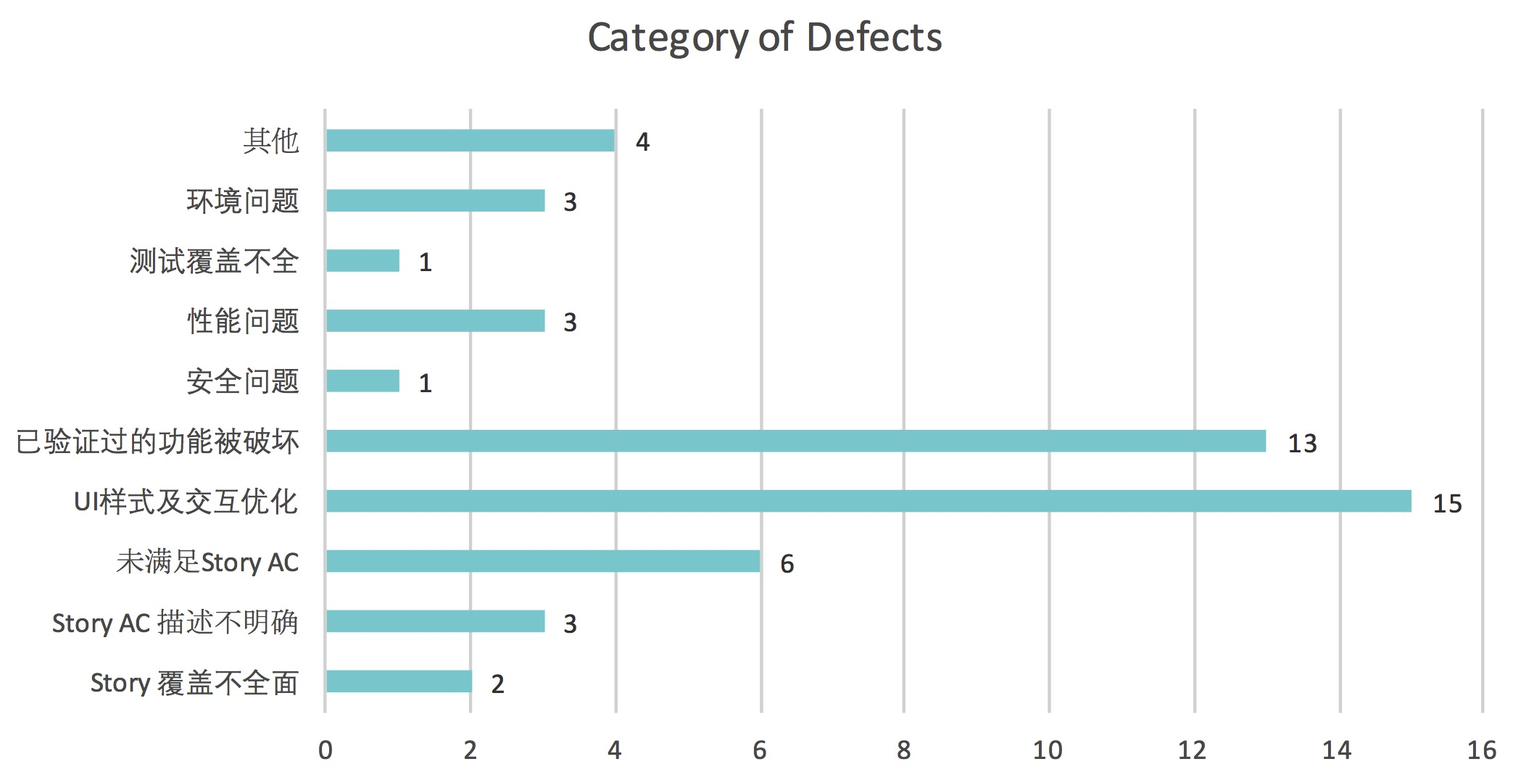
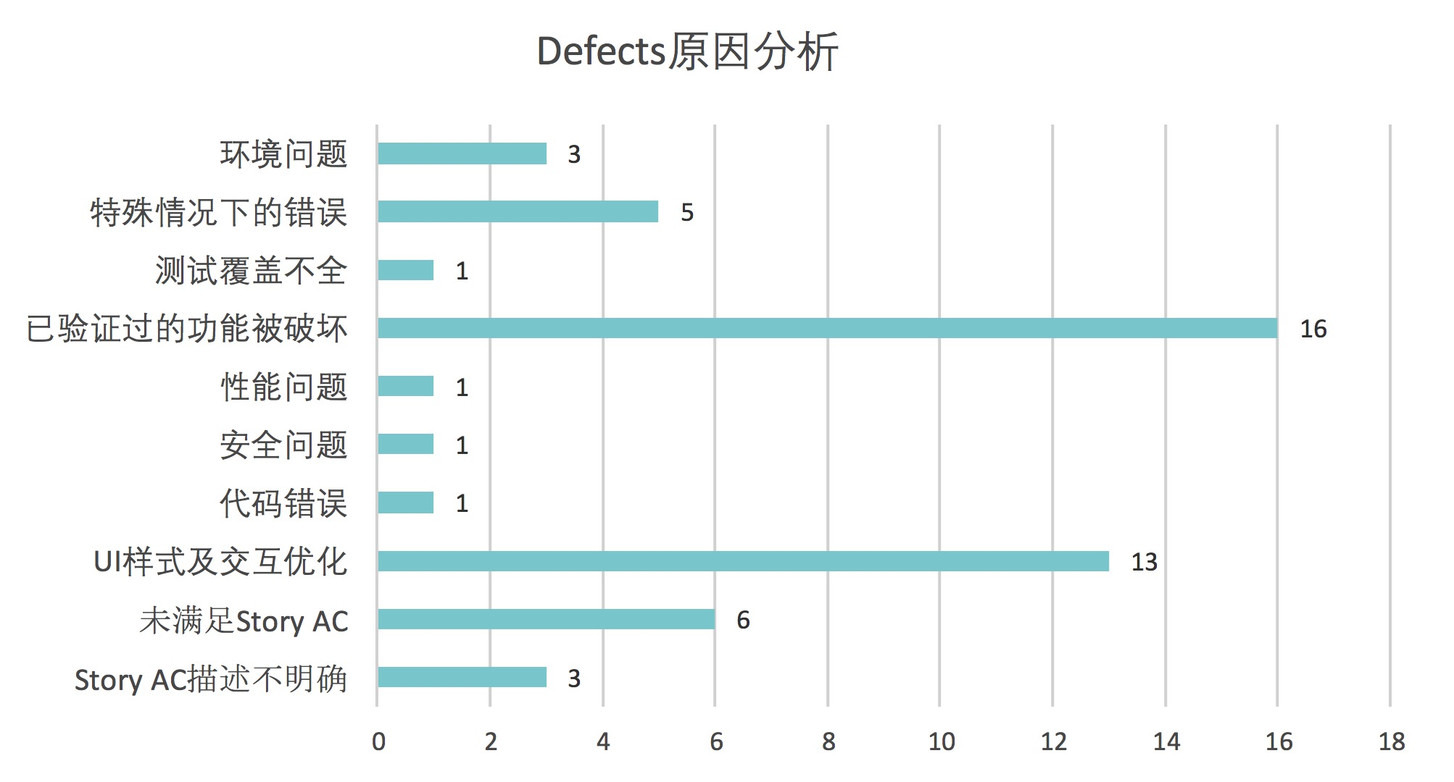
update defects

diff --git a/_posts/8. Testing/2018-07-29-defects-management.md b/_posts/8. Testing/2018-07-29-defects-management.md
@@ -1,39 +1,41 @@
 ---
 layout: post
-title: 敏捷开发中的Defects管理
+title: Defects的启示
 date: 2018-7-29
 categories: blog
-header-img: "../img/header/Home8.jpg"
+header-img: "../img/header/Home7.jpg"
 tags: [测试锦囊]
 description: 敏捷开发中的Defects管理
 
 ---
 
-# 什么是Defect
+最近我做了一些实践，通过整理、讨论和分析项目上的Defects情况，来探索质量管理中的待改进点。最终发现，Defects实际上给质量管理带来了很多的启示。
 
-我查了很多资料，也没有找到对"Defects"一词的明确定义，大部分人将"Defects"等同于“Bug”。Bug一词是这样来的。
+当然，要讨论Defects，首先要使团队对Defects有一致的理解。我查了很多资料，也没有找到对"Defects"一词的明确定义，大部分人将"Defects"等同于“Bug”。
 
-1947年9月9日，Grace Hopper发现了第一个电脑上的bug。当团队在Mark II计算机上工作时，搞不清楚为什么电脑不能正常工作了。经过深度挖掘，才发现，原来是一只飞蛾误打误撞地飞到了计算机内部，从而引发了故障。从此，人们开始用“Bug”（原意是“虫子”）来称呼计算机中的隐含的错误。
+	1947年9月9日，Grace Hopper发现了第一个电脑上的bug。当团队在Mark II计算机上工作时，搞不清楚为什么电脑不能正常工作了。经过深度挖掘，才发现，原来是一只飞蛾误打误撞地飞到了计算机内部，从而引发了故障。从此，人们开始用“Bug”（原意是“虫子”）来称呼计算机中的隐含的错误。
 
-那么“Defects”真的等同于“Bug”吗？我不建议过于纠结概念，而应该关注于其本身。我的理解是，从狭义上讲，Defects是指软件程序中存在某种破坏其正常运行的**问题**或**错误**。然而，从质量的角度讲，没有错误并不代表就是一款能够让客户和用户满意的软件产品。因此，从广义上讲，Defects还包含那些没有达到客户或用户期望的质量问题。具体来说，Defects可以分为以下几类：
+然而，一个好的软件产品，不仅要关注其功能本身，还要关注其是否好用、是否安全、是否给用户带来良好的体验、是否帮助用户实现真正的业务价值。因此，从狭义上讲，Defects是指软件程序中存在的某种破坏其正常运行的问题或错误。从广义上讲，Defects还包含那些没有达到客户或用户期望的质量问题。具体来说，Defects可以分为以下几类：
 
-* ① **程序错误**: 指程序中存在的错误，比如边界、时区等问题，从而使得系统无法正常工作。
+* **程序错误**: 指程序中存在某种错误，比如边界、时区等问题，使得系统无法正常工作。
 
-* ② **性能问题**：指系统的响应速度、吞吐量、并发数等性能瓶颈，导致系统缺陷，或者引起较差的用户体验。试想，如果用户想要查看一个报表，却需要花10分钟来等待页面加载，用户是否会放弃。
+* **性能问题**：指由于性能瓶颈所导致的系统缺陷。试想，作为用户，如果你想要查看一个报表，却需要花10分钟来等待加载，你是否会放弃？
 
-* ③ **安全问题**：指软件安全漏洞，造成信息泄露，或者系统数据、功能易受攻击。
+* **安全问题**：指软件安全漏洞，造成信息泄露、或使得系统数据或功能易受攻击。
 
-* ④ **兼容性问题**：指程序无法在不同的硬件平台、操作系统、网络环境等中正常运行。
+* **兼容性问题**：指程序无法在不同的硬件平台、操作系统、网络环境等中正常运行。
 
-* ⑤ **功能与用户需求不否**：指软件功能虽能够正常工作，但与用户期望的功能不匹配。比如，用户期望造一个沙发，却开发了个马扎。
+* **功能与用户需求不否**：指软件功能与用户期望不匹配。比如，用户期望造一个沙发，却交付了个马扎。
 
-* ⑥ **交互体验不佳**：指用户使用起来不方便。好的软件，应该方便使用、易于操作。举个例子，电梯控制面板上的“报警”按钮和“关门”按钮紧挨在一起，功能没有问题，但你是否经常由于想要"关门"而误触了“报警"按钮？再比如，你在网页中填写了一个长长的表单，点击“提交”按钮后，系统提示输入信息有误，却并没有告诉你错误的哪里，你是会耐心地从头查阅，还是干脆放弃？
+* **交互体验不佳**：指用户使用起来不方便。譬如，电梯控制面板上的“报警”按钮和“关门”按钮紧挨在一起，你是否经常由于"关门"而误触了“报警"按钮？再比如，你在网页中填写了一个长长的表单，点击“提交”按钮后，系统提示输入信息有误，却并没有告诉你错误的哪里，你是会不耐烦地从头查阅，还是干脆放弃？
 
 ---
 
-# Defect的来源及处理方法
+# Defects的产生与应对策略
 
-在敏捷开发中，我们将需求按照优先级划分成一个个迭代，每个迭代都能以一个可交付的软件呈现给用户，从而及早地获得用户反馈，以保证我们交付的软件是用户真正期望的。在每个迭代中，我们所有的开发都基于用户故事卡，每一张用户故事卡都将经历Analyse、Design、Code、Test、Deploy的过程。
+产品质量是团队共同的责任，软件开发是一个过程，任何环节都有可能产生质量问题，但每个环节的问题都应该有最恰当的处理方式。
+
+在敏捷开发中，我们将需求按照优先级划分成一个个迭代，每个迭代都能以一个可交付的软件呈现给用户，从而尽早地获得用户反馈，以保证我们交付的软件是用户真正期望的。在每个迭代中，我们所有的开发都基于用户故事卡（Story），每一张用户故事卡都将经历Analyse、Design、Code、Test、Deploy的过程。
 
 那么，在敏捷软件开发过程中，哪些环节都可能产生Defect呢？
 
@@ -41,91 +43,60 @@ description: 敏捷开发中的Defects管理
     <p><img src="{{site.baseurl }}/img/web-testing/image-022.jpg" align="center"></p>
 </center>
 
-正如上图所示，Defect分别来自于Sprint阶段、UAT用户验收阶段以及真正的生产环境。其中，Sprint阶段又细分为：不合理的需求、不恰当的设计、代码及逻辑错误、Story卡测试发现的问题、回归测试发现的问题、以及非功能性测试的问题。
+正如上图所示，Defect分别来自于Sprint阶段、UAT用户验收阶段以及真正的生产环境。其中，Sprint阶段又细分为：不合理的需求、不恰当的设计、代码及逻辑错误、Story卡测试过程中发现的问题、回归测试中发现的问题、以及非功能性测试发现的问题。
 
-由于编写Defect卡本身就是一件很花时间的事，不可能将所有的问题都以Defects的形式提交到Defects管理系统或者看板上。那么，高效的做法是，针对不同环节的Defect，采用不同的的处理方法。
+开发过程中不同阶段的Defects，我们分别采用什么样的敏捷实践来应对呢？
 <center>
     <p><img src="{{site.baseurl }}/img/web-testing/image-023.jpg" align="center"></p>
 </center>
 
-上图以看板的形式展示了Sprint开发中Story卡片流动的过程，以及每个环节的敏捷实践，这些实践就是保证该环节交付质量的有效手段，同时包含了对各个阶段Defect的处理方法：
+上图以看板的形式展示了Sprint开发中Story卡片流动的过程，以及每个环节的敏捷实践，这些实践有助我们发现和改善质量问题：
 
-* ① **不合理的需求**: 由于QA往往有不同于BA的视角，因此需要提早介入，与BA Pair完善Story AC (Acceptance Criteria）。此时发现的问题要及时补充到Story卡上。这样，不仅能够尽早地发现需求上的不合理或遗漏，还有助于QA深入理解需求、设计测试用例。
+* **不合理的需求**: 由于QA往往有不同于BA的视角，提早与BA Pair完善Story AC (Acceptance Criteria）。此时发现的问题要及时补充到Story卡上。这样，不仅能够尽早地发现需求上的不合理或遗漏，还有助于QA深入理解需求、设计测试用例。
 
-* ② **不恰当的设计**：UX往往制作出很酷炫的设计图，但并不一定是用户真正期望的，或者技术实现的成本过高。因此，一方面，要在开发之前与用户Review设计图，并按照用户的反馈更新设计；另一方面，在每一张Story卡开始开发之前，由BA、UX、QA及Dev一起Kick Off Story，通过讨论和澄清，使得团队成员对需求和设计达成一致。一旦发现问题，要及时更新Story卡和设计图。
+* **不恰当的设计**：UX制作出酷炫的设计图，却并不一定是用户真正期望的，或者技术实现的成本过高。因此，一方面，要在开发之前与用户Review设计图，并按照用户的反馈及时更新；另一方面，在每一张Story卡开始开发之前，由BA、UX、QA及Dev一起Kick Off Story，通过讨论和澄清，使得团队成员对需求和设计达成一致。一旦发现问题，要及时更新Story卡和设计图。
 
-* ③ **代码及逻辑错误**：单元测试、Code Review、Desk Check都是用来发现代码及逻辑错误的有效手段。因此，开发提交代码后，要先执行单元测试、只有当单元测试通过之后，才可以将代码部署到QA测试环境，然后按照Story的AC逐条与QA和BA进行Desk check。除此之外，开发团队要每天坚持Code Review，以便发现代码逻辑及编码规范方面的问题。这些过程中发现的Defects都将由Dev自行修复。 
+* **代码及逻辑错误**：单元测试、Code Review、Desk Check都是用来发现代码及逻辑错误的有效手段。因此，开发提交代码后，要先执行单元测试、只有当单元测试通过之后，才可以将代码部署到QA测试环境；然后按照Story的AC逐条与QA和BA进行Desk check。除此之外，开发团队要每天坚持Code Review，以便发现代码逻辑及编码规范方面的问题。这些过程中发现的Defects都应该尽快修复。 
 
-* ④ **Story卡测试发现的问题**：Story卡测试时发现的问题，无论其严重程度如何，基本上都要在当前迭代修复。QA可以与Dev面对面沟通，也可以将Defect添加到Story的Comment里面，再将Story重新拖回In Dev状态，或者在物理看板上添加一张物理卡片。但无论哪种形式，都需要在早会时提及，以便有效地跟踪Defect进度。
+* **Story卡测试中发现的问题**：Story卡测试时发现的问题，无论其严重程度如何，基本上都要在当前迭代修复。QA可以与Dev面对面沟通，也可以将Defect添加到Story的Comment里面，再将Story重新拖回In Dev状态，或者在物理看板上添加一张物理卡片。但无论哪种形式，都需要在早会时提及，以便有效地跟踪Defect进度。
 
-* ⑤ **回归测试发现的问题**：普遍来讲，回归测试发现的问题，优先级要低于Story的开发。因此，QA需要在电子看板或者Defects管理系统中提交一条标准的Defect记录，然后与BA沟通，在最恰当的时间Assign给Dev。但如果该Defect造成系统崩溃或者Block了某些功能的使用，就应该立即修复它。
+* **回归测试中发现的问题**：普遍来讲，回归测试发现的问题，优先级要低于Story的开发。因此，QA需要在电子看板或者Defects管理系统中提交一条Defect记录，然后与BA沟通，在最合适的时间Assign给Dev。但如果该Defect造成系统崩溃或者Block了某些功能的使用，就应该立即修复它。
 
-* ⑥ **非功性测试的问题**：非功能性测试一般是在每一次正式Release上线之前做，发现的问题也要在Release之前修复。同样需要在电子看板或者Defects管理系统中提交一条Defect，但要注意其优先级。
+* **非功性测试发现的问题**：非功能性测试一般是在每个Release上线之前做，发现的问题也要在Release之前修复。同样需要在电子看板或者Defects管理系统中提交Defect记录，但要注意其优先级。
 
-* ⑦ **UAT用户验收阶段的反馈**：在UAT阶段，开发团队向用户Showcase，或者由用户来做用户验收测试。这时，用户会提出一些反馈。由QA和BA对这些反馈进行分析，如果是功能层面的问题，在看板上建成卡片，并在上线前修复。如果是需求层面的问题，就将其添加到需求列表中，以便安排在之后的迭代计划中。
+* **UAT用户验收阶段的反馈**：在UAT阶段，开发团队向用户Showcase，或者由用户来做用户验收测试。此时，用户会提出一些反馈。由QA和BA对这些反馈进行分析，如果是功能层面的问题，在看板上建成卡片，并在上线前修复。如果是需求层面的问题，就将其添加到需求列表中，以便安排在之后的迭代计划中。
 
-* ⑧ **生产上的问题**：生产上的问题优先级是最高的。但是与用户反馈一样，功能层面的问题要立即修复，用户体验上的问题要添加在需求列表中。
-
-标准的Defect应该这样记录：
-<center>
-    <p><img src="{{site.baseurl }}/img/web-testing/image-025.jpg" align="center"></p>
-</center>
+* **生产上的问题**：生产上的问题优先级是最高的。但是与用户反馈一样，功能层面的问题要立即修复，用户体验上的问题要添加在需求列表中。
 
 ---
 
-# Defect的生命周期
+# Defects对质量管理的启示
 
-Defect的生命周期是指Defect从被发现到关闭的过程，其状态大致分为：New、Open、Assigned、Rejected、Resolved、Fixed、Blocked、Failed Retest、Closed。其过程如图所示：
+Defects并不是独立存在的，它或多或少反映出了项目管理和开发过程中存在的问题，这些问题都可能对质量产生影响。比如：线上问题的走势，是否能够反映出产品质量的变化；分析每个迭代Defects的数据及产生的原因，有助于发现开发过程中出现的问题，及时地进行风险把控；
 
-<center>
-    <p><img src="{{site.baseurl }}/img/web-testing/image-024.jpg" align="center"></p>
-</center>
+我以自己所在项目为例，说一说Defects给质量管理和团队管理带来的启示。
 
+#### 1. 通过线上问题走势，分析产品质量的变化
 
-<!-- * **New**: QA发现一个新的Defect，即Defect生命周期的开始。
- * **Open**: 经过反复重现，确定是问题时，QA提交缺陷单，等待Dev认领。
- * **Assigned**: Defect被Dev认领，等待分析。
- * **Rejected**:	Defect是有时效性的，有些Defect会在开发过程中被默默修复;有些会随着新功能的开发现象发生改变，因此当Dev领到Defect之后，发现不再是之前的问题，则将其Reject。这时，QA就需要重新分析，选择关闭，或是按照当前现象修改描述。
- * **Resolved**: 经过与QA、BA讨论，决定该问题不需要修复。
- * **Fixed**: Dev已经完成修复，等待QA进行回归测试。
- * **Blocked**: 依赖于其他问题。
- * **Failed Retest**: 修复失败。
- * **Closed**: QA回归通过，Defect生命周期结束。-->
-
- Defect有三种最终状态：
- * ① **Resolved**: 经过QA、BA及Dev讨论后，认为该Defect不需要修复，则被置为Resolved。
- * ② **Rejected**:	Defect是有时效性的，有些非高优先级的Defect被提出后，并不会被立即Assign给Dev。这些Defect或许会在开发过程中被Dev发现并默默修复，也可能随着新功能的开发发生改变，因此一旦发现Defect中描述的行为无法复现或者与之前记录的现象不符，则将其Reject。这时，QA需要重新去复现或定位。
- * ③ **Closed**: QA回归测试通过，Defect生命周期结束。
-
----
-
-# Defects的启示
-
-Defects作为衡量产品质量的重要指标，Defects管理作为质量管理的重要组成部分，切不可忽视Defects所带来的启示。比如：通过线上问题的趋势，衡量产品质量的变化；分析每个迭代Defects的数据及产生的原因，有助于发现开发过程中出现的问题，及时地进行风险把控；
-
-我以自己所在的Adventure项目为例，说一说Defects给质量管理和团队管理带来的启示。
-
-#### 1. 分析线上问题走势，衡量产品质量
-
-2017年8月，我们接到Adventure遗留系统，到10月份累计在生产环境发现历史遗留问题21个。按照优先级，每个月消灭一些。截止2018年7月，发现的历史遗留问题高达46个，只剩余2个还未修复。Defects数量在减少，产品质量在逐步提升。
+2017年8月，我们接到A遗留系统，到10月份累计在生产环境发现历史遗留问题21个。按照优先级，每个月修复一定的数量。截止2018年7月，发现的历史遗留问题高达46个，只剩余2个还未修复。Defects数量在减少，产品质量在逐步提升。
 
 <center>
     <p><img src="{{site.baseurl }}/img/web-testing/image-028.jpg" align="center"></p>
 </center>
 
-除此之外，我们对历史遗留问题和新引入问题做了对比，这10个月的线上问题中，历史遗留问题占85%，新引入问题占15%，可见开发过程中的测试工作相对比较充分，但仍有部分问题流到线上，要对这些问题具体分析：其严重程度如何、产生的原因是什么、为什么在测试中没有发现、后续有怎样的改进措施。
+除此之外，我们对历史遗留问题和新引入问题做了对比，这10个月的线上问题中，历史遗留问题占85%，新引入问题占15%，可见仍有部分没能在开发过程中发现，使其流到线上。要对这些问题具体分析：其严重程度如何、产生的原因是什么、为什么在开发过程中没有发现、后续有怎样的改进措施。
 
-这些还不够，理想的情况是，要对生产上的“运维类问题”和“功能类问题”加以区分，以便采取更恰当的改进措施。
+当然，最好能对生产上的“运维类问题”和“功能类问题”加以区分，以便采取更恰当的改进措施。
 
 #### 2. 分析迭代Defects情况，讨论改进措施
 
-除了分析线上问题，我还对从2017年10月-2018年7月QA提交的Defects的情况做了一个统计，观察每个月提交的Defects和修复的Defects情况。
+除了分析线上问题，我还对从2017年10月-2018年7月QA提交的Defects情况做了一个统计，观察每个月提交的Defects和修复的Defects情况。
 
 <center>
     <p><img src="{{site.baseurl }}/img/web-testing/image-026.jpg" align="center"></p>
 </center>
 
-从统计结果来看，2018年7月的Defects数量有明显上升趋势，达到历史最高点。因此，有必要对7月份的Defects情况做一个详细的分析，看看究竟是什么原因导致了这些Defects。
+从统计结果来看，2018年7月发现和修复的Defects数量均呈明显的上升趋势，达到历史最高点。因此，有必要对7月份的Defects情况做一个详细的分析，看看究竟是什么原因导致了这些Defects。
 
 <center>
     <p><img src="{{site.baseurl }}/img/web-testing/image-027.jpg" align="center"></p>
@@ -134,8 +105,8 @@ Defects作为衡量产品质量的重要指标，Defects管理作为质量管理
 我对这些Defects做了一个初步的分类，并利用Retrospective Meeting的机会，与团队成员一起分析讨论。发现产生问题的原因有以下一个方面：
 
 * 本次Release的Story Kick Off和Desk Check做的不够好。有时候开发没有Kick Off就直接按照自己的理解开始编码，导致团队成员没有对需求达成一致的理解，做出来的功能出现偏差。有时候Dev将一堆卡垒在一起做Desk Check，这样很难逐条覆盖AC，从而将问题流入QA测试阶段。
-* 本次的需求比较偏技术，BA只能从业务的角度去编写Story卡。开发同学为了追赶工期，没能够添加充分的Tech Task, 也没能够坚持Code Review，导致出现需求遗漏和逻辑错误。
-* 单元测试覆盖率比较低，作为一个遗留的微服务系统，某些服务在之前从未重构过，代码逻辑比较混乱，添加单元测试的难度大、成本高。因此一些本该单元测试阶段就能发现的问题一直流到QA测试阶段。
+* 本次的需求比较偏技术，BA只能从业务的角度去编写Story卡。开发同学为了追赶工期，没能够添加充分的Tech Task, 也没能够坚持Code Review，导致出现一些逻辑错误。
+* 单元测试覆盖率比较低。作为一个遗留的微服务系统，某些服务在之前从未重构过，代码逻辑比较混乱，添加单元测试的难度大、成本高。因此一些本该单元测试阶段就能发现的问题一直流到QA测试阶段。
 * 本次Release一共一个月时间，UI一直到最后一个礼拜才确定下来，期间反反复复的修改不仅花费了太多成本，还消磨了Dev的意志，导致出现一些本不该出现的Defects。
 * 新人加入，项目工期紧，对上下文信息同步不够，导致新开发的内容破坏了一些已经验证过的功能。
 
@@ -143,10 +114,9 @@ Defects作为衡量产品质量的重要指标，Defects管理作为质量管理
 
 * 坚决执行Story Kick Off和Desk Check敏捷实践，在每日站会时严格跟踪每一张Story卡的进度。
 * 预定一个定期会议，每天下午17:00 - 18:00进行Code Review，并每周一人轮班担任Owner。
-* 将单元测试覆盖率可视化。同时，制定项目标准：对于新开发的内容，必须编写并通过单元测试才能Desk Check；对于历史遗留模块，创建技术债墙，并于每周消化一个技术债务。
+* 将单元测试覆盖率可视化。同时，制定项目标准：对于新开发的内容，必须编写并通过单元测试才能Desk Check；对于历史遗留模块，在技术债墙上添加技术债卡片，并于每周消化一个技术债务。
 * 项目开发前期要加强与客户和用户的沟通，在Story开始开发之前，确定好UI设计，开发过程中尽量避免大的改动。
 * 新人加入项目时，采用结对编程的方式完成开发。除此之外，每周在项目内进行一次技术分享Session。
 
-当然，以上两点只是我基于Adventure举的一个例子。实际上，Defects还给了我们很多启示，比如，为什么项目老是加班？为什么有些模块的Defects数量比较多？怎样利用团队成员花在Defects上的efforts，制定提升计划？
+当然，以上两点只是我基于A项目举的一个例子。实际上，Defects还给了我们很多启示，比如，为什么项目老是加班？为什么有些模块的Defects数量比较多？怎样利用团队成员花在Defects上的efforts，制定提升计划？然而，每个项目的情况不一样，我们应该基于自己的项目背景，由团队成员一起分析深层次的原因，共同制定切实可行的改进措施，以此来不断地提高产品质量。
 
-Defects管理作为QA的重要技能之一，对于QA，最有价值的事就是尽可能多的发现问题、分析问题、帮助团队以最少的成本修复最多的Defects，从而使得产品质量得到持续改进。然而，每个项目的情况各有不同，Defects管理要“因地制宜”，其中还有很多东西值得探索。

diff --git a/_posts/1. Life/2017-11-14-avoid-game.md b/_posts/1. Life/2017-11-14-avoid-game.md
@@ -2,7 +2,7 @@
 layout: post
 title: 我把王者农药戒了
 date: 2017-11-14
-header-img: "../img/header/Home2.jpg"
+header-img: "../img/header/Home8.jpg"
 categories: blog
 tags: [我所理解的生活]
 description: 临睡前算了笔数字，顿时惊起，辗转反侧，久不能寐。几个月前，七姑娘开始迷上王者农药，到现在，总计552场次。这意味着什么？按照20（分钟/场）粗略估算，总计11040分钟，即184小时。倘若平均每天1小时，要184天才能完成如此战绩。真是不算不知道，一算吓一跳。坦白讲，除了打农药，七姑娘还间歇性看完了一部74集的《那年花开月正圆》和35多集的《小姨多鹤》。每集按照40分钟计算，累计4360分钟，即72小时。同样的计算方法，又是75天。

diff --git a/_posts/1. Life/2017-01-08-father.md b/_posts/1. Life/2017-01-08-father.md
@@ -3,7 +3,7 @@ layout: post
 title: 父亲和他的车
 date: 2017-01-08
 categories: blog
-header-img: "../img/header/Home2.jpg"
+header-img: "../img/header/Home8.jpg"
 tags: [我所理解的生活]
 description: 要说父亲，还得从生产队的拖拉机开始。那时候，父亲是位地道的农N代。可作为生产队唯一的拖拉机驾驶员，可算是技有所长。饭后铃响，大家伙三三两两扛着锄头、铁锨，赶着牛车上地干活。父亲也开着拖拉机哒哒哒哒地出门了，嘴里叼着烟，腿上放着2岁大的哥哥，雄赳赳气昂昂。私下里，父亲常常做一些斗、风箱、手推车等小物件，开着拖拉机到集市上去卖。
 ---

diff --git a/_posts/5. Web Responsive Testing/2018-01-14-responsive-web-testing.md b/_posts/5. Web Responsive Testing/2018-01-14-responsive-web-testing.md
@@ -3,7 +3,7 @@ layout: post
 title: Responsive Web测试
 date: 2018-01-14
 categories: blog
-header-img: "../img/header/Home3.jpg"
+header-img: "../img/header/Home1.jpg"
 tags: [Web响应式测试]
 description: Ethan Marcotte曾于2010年5月25日在A List Apart发表了文章Responsive Web Design，首次提出了响应式设计RWD(Responsive Web Design)的概念。其理念是，Web页面的设计能够自适应多种设备、平台和浏览器，同时减少缩放、平移和滚动。这样，无论用户正在使用电脑、平板、还是手机，Web页面都应该能够自动切换分辨率和图片尺寸等。这样，用户能够在不同设备上看到同样的网页。
 

diff --git a/_posts/6. API Testing/2017-10-09-http-1.md b/_posts/6. API Testing/2017-10-09-http-1.md
@@ -3,7 +3,7 @@ layout: post
 title: 你不得不知道HTTP协议基础
 date: 2017-10-09
 categories: blog
-header-img: "../img/header/Home3.jpg"
+header-img: "../img/header/Home1.jpg"
 tags: [API测试]
 description: HTTP（HyperText Transfer Protocol），超文本传输协议，是互联网上应用最为广泛的一种网络协议。HTTP协议工作于客户端-服务端（C/S）架构上。浏览器作为HTTP客户端通过URL向HTTP服务端即WEB服务器发送所有请求。而HTTP就是浏览器和服务器之间的传输协议，也就是服务器与浏览器之间相互通信所遵守的规则。
 ---

diff --git a/_posts/5. Web Responsive Testing/2018-01-15-galen-responsive-auto-testing.md b/_posts/5. Web Responsive Testing/2018-01-15-galen-responsive-auto-testing.md
@@ -2,7 +2,7 @@
 layout: post
 title: 使用Galen进行Responsive Web自动化测试四部曲
 date: 2018-01-15
-header-img: "../img/header/Home3.jpg"
+header-img: "../img/header/Home1.jpg"
 categories: blog
 tags: [Web响应式测试]
 description: Galen是一款开源的测试框架，是一款开源的测试框架，最初是被设计用来测试网站在不同浏览器上的表现，比如IE、Chrome,、Firefox等。但随着响应式设计的发展，Galen的作用就被扩展到测试网站页面布局分别分别在PC、Tablet和Mobile上是否正确，也就是响应式Web测试。

diff --git a/_posts/8. Testing/2017-09-22-web-test.md b/_posts/8. Testing/2017-09-22-web-test.md
@@ -3,7 +3,7 @@ layout: post
 title: 我的Web测试指南
 date: 2017-9-22
 categories: blog
-header-img: "../img/header/Home3.jpg"
+header-img: "../img/header/Home7.jpg"
 tags: [测试锦囊]
 description: 于是我懂了，在小J的技术栈里，缺少一份web测试指南，来帮助她对Web应用抽丝剥茧。Web测试旨在找出Web应用系统中潜在的缺陷。无论什么应用系统、什么平台、采用什么技术架构、Web测试，始终万变不离其宗。可将其归纳为以下三类......
 

diff --git a/_posts/4. Web UI Testing/2017-01-15-Cucumber-7.md b/_posts/4. Web UI Testing/2017-01-15-Cucumber-7.md
@@ -3,7 +3,7 @@ layout: post
 title:  如何写出漂亮的Cucumber代码
 date: 2017-01-15
 categories: blog
-header-img: "../img/header/Home3.jpg"
+header-img: "../img/header/Home1.jpg"
 tags: [Web UI自动化]
 description: 小C同学说，通过几期Cucumber的基本知识学习，他迫不及待地编写了自己的cucumber peoject。可是他的features显得即简单又笨拙！怎么才能写出漂亮的features呢？别急，今天我们就来讲讲如何优化features。
 

diff --git a/_posts/8. Testing/2017-11-05-how-to-test-under-Devops.md b/_posts/8. Testing/2017-11-05-how-to-test-under-Devops.md
@@ -3,7 +3,7 @@ layout: post
 title: 项目实施DevOps时，我们是如何做测试的
 date: 2017-11-5
 categories: blog
-header-img: "../img/header/Home3.jpg"
+header-img: "../img/header/Home7.jpg"
 tags: [测试锦囊]
 description: 正如我们所知，DevOps最近几年很风靡，很多企业正在如火如荼的推行它。然而，你可曾想过，从传统到敏捷、再到DevOps，开发模式的不断革新对测试提出了怎样的挑战？
 ---

diff --git a/_posts/4. Web UI Testing/2017-01-12-Cucumber-4.md b/_posts/4. Web UI Testing/2017-01-12-Cucumber-4.md
@@ -3,7 +3,7 @@ layout: post
 title: 第一个Cucumber Test
 date: 2017-01-12
 categories: blog
-header-img: "../img/header/Home3.jpg"
+header-img: "../img/header/Home1.jpg"
 tags: [Web UI自动化]
 description: 发表完《初识Cucumber》，有读者评论，说自己也在学习cucumber，但是苦于公司没有网络，学习资源匮乏，学习进度一拖再拖。这不禁让我想起了当初学习Selenium的经历。
               

diff --git a/_posts/5. Web Responsive Testing/2018-01-17-galen-with-javascript.md b/_posts/5. Web Responsive Testing/2018-01-17-galen-with-javascript.md
@@ -3,7 +3,7 @@ layout: post
 title: 使用JavaScript 编写Galen 测试
 date: 2018-01-17
 categories: blog
-header-img: "../img/header/Home3.jpg"
+header-img: "../img/header/Home1.jpg"
 tags: [Web响应式测试]
 description: Galen支持JavaScrpt和Java两种脚本语言。本文选用JavaScrpt编写Galen测试脚本，Galen提供了很多API，你可以去查看官方文档了解详情。当然，你也可以选择Java编写脚本。
 

diff --git a/_posts/7. App Testing/2017-07-25-app-performance-test.md b/_posts/7. App Testing/2017-07-25-app-performance-test.md
@@ -2,7 +2,7 @@
 layout: post
 title: Android APP性能测试浅析
 date: 2017-7-25
-header-img: "../img/header/Home3.jpg"
+header-img: "../img/header/Home1.jpg"
 categories: blog
 tags: [APP测试]
 description: APP性能问题一般分为：连接超时、闪退、卡顿、崩溃、黑白屏、网络劫持、交互性能差、CPU使用率问题、内存泄露等。针对这些性能问题，Android App性能测试应该覆盖......
